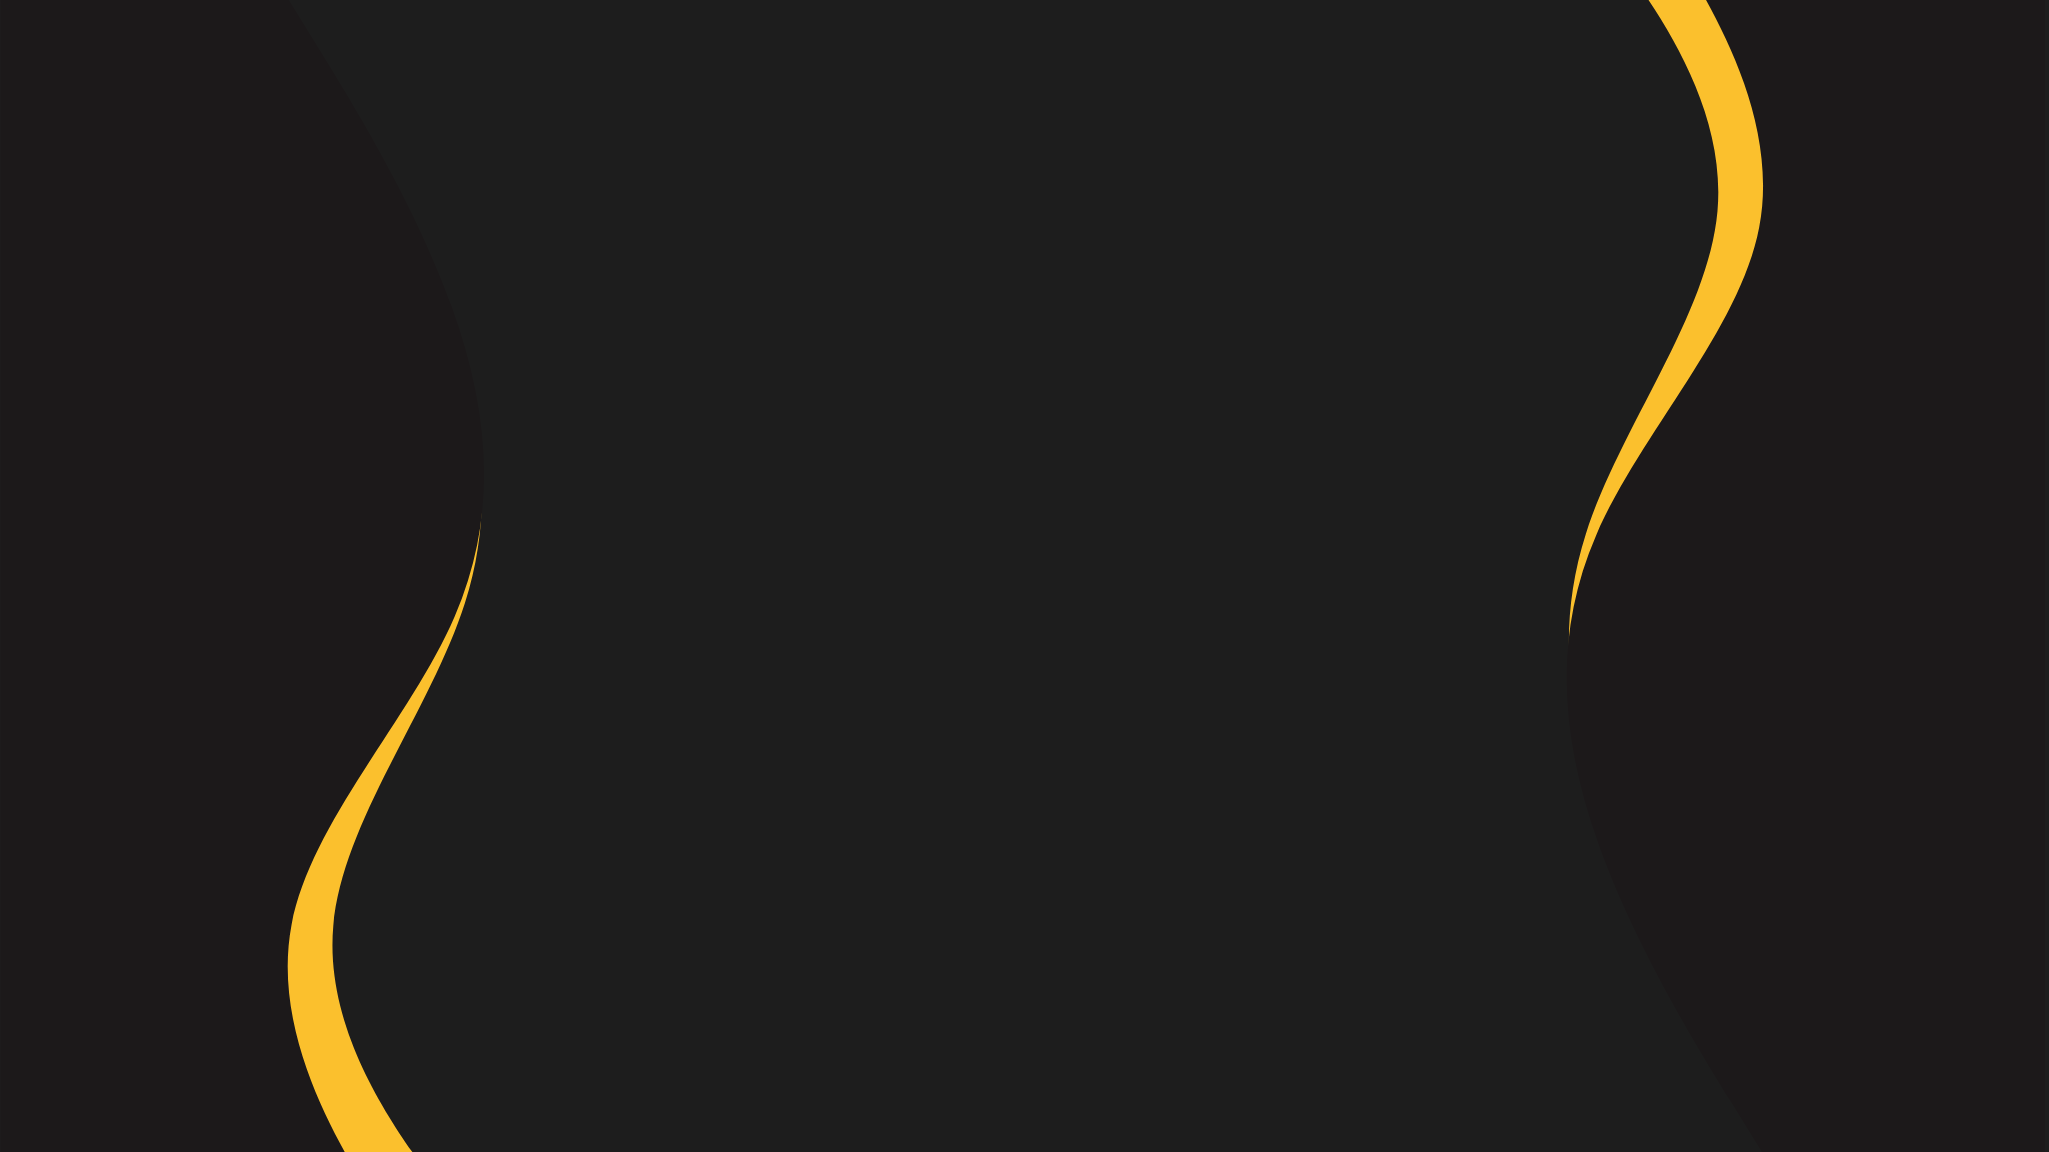
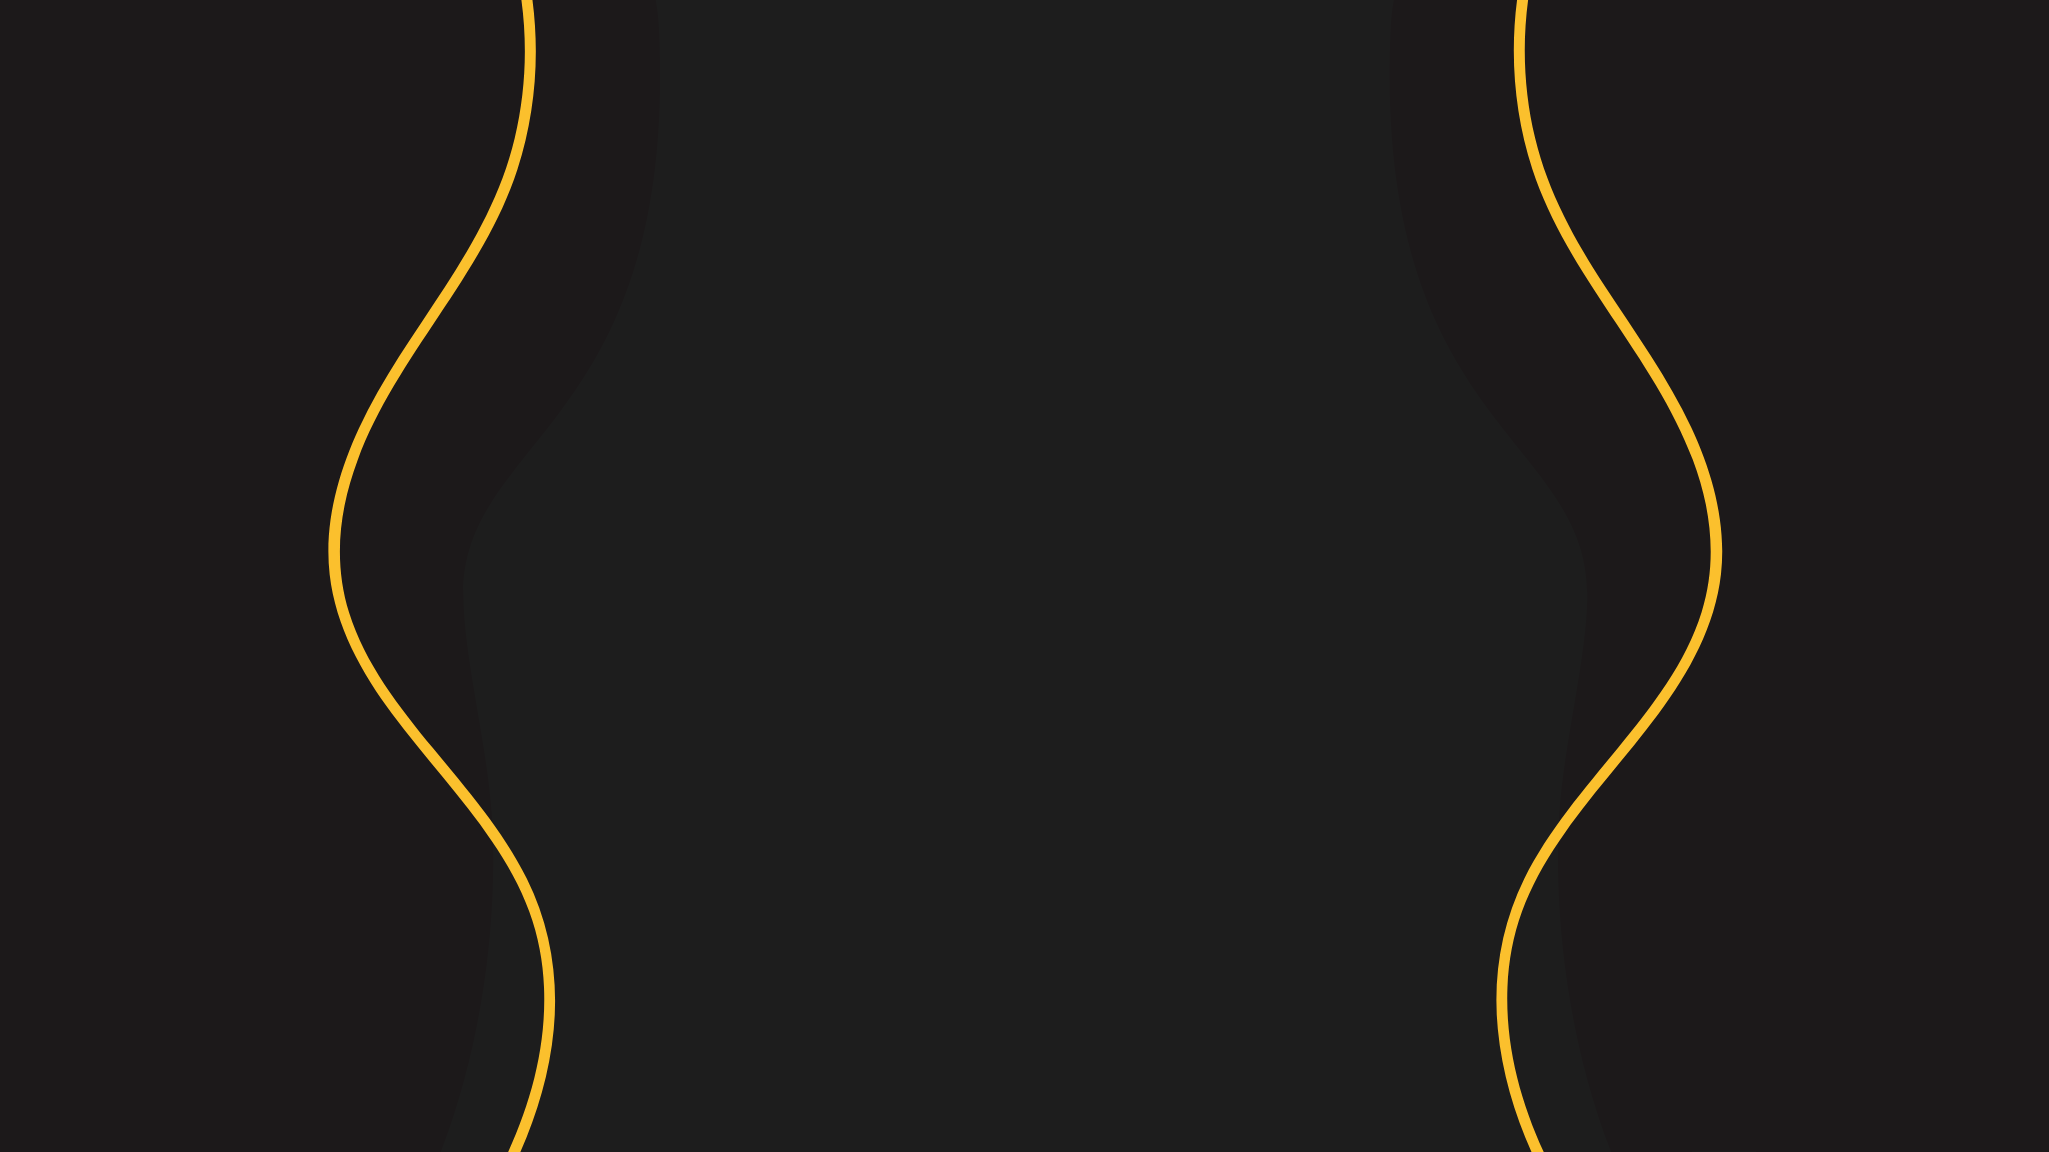
gotta rest

diff --git a/Schoolworks/School_Project/CPPROG3/misc/script.js b/Schoolworks/School_Project/CPPROG3/misc/script.js
@@ -251,12 +251,36 @@ function showMG() {
 }
 
 const paragraphs = {
-  10: ["quick brown fox jumps over the lazy dog try again hello world"],
+  10: [
+    "the sun set over the mountains casting a golden glow",
+    "she smiled brightly knowing today was going to be perfect",
+    "the storm clouds gathered darkening the sky with impending rain",
+    "a bird flew past its wings cutting through the cold wind",
+    "the aroma of fresh coffee filled the air waking everyone",
+    "they walked hand in hand enjoying the peaceful evening walk",
+    "the music played softly creating a calm relaxing atmosphere",
+    "the dog barked loudly chasing after the bouncing ball",
+    "he stared at the horizon lost in thoughts of the past",
+    "the books on the shelf were arranged in perfect order",
+  ],
   20: [
-    "typing fast and accurately is a useful skill that improves productivity and reduces mistakes with practice it becomes second nature",
+    "the car screeched to a halt narrowly avoiding the pedestrian who suddenly stepped out from behind the parked truck",
+    "she ran through the crowded streets her heart racing as she desperately searched for the lost wallet",
+    "the wind howled through the trees shaking the branches and causing the leaves to scatter in all directions",
+    "he carefully placed the delicate vase on the shelf making sure it wouldn't fall or get damaged in any way",
+    "as the clock struck midnight the party came to an end leaving everyone to make their way home",
+    "the sun rose over the ocean painting the sky with shades of orange pink and soft purple hues",
+    "they walked down the narrow alley trying to avoid the puddles and debris scattered across the cobblestone path",
+    "the children laughed and played their voices echoing through the park as they ran after the ice cream truck",
+    "she opened the letter with trembling hands unsure of what the contents might reveal about her future",
+    "the professor explained the complex theory in simple terms making sure every student understood the fundamental concepts clearly",
   ],
   40: [
-    "typing is an essential skill in the digital age improving speed and accuracy helps students and professionals work efficiently practice daily to develop muscle memory and improve performance over time using proper techniques reduces strain and increases productivity",
+    "the train rumbled along the tracks its powerful engine pulling several cars behind it as passengers gazed out the windows watching the landscape pass by in a blur of green fields distant hills and the occasional small town",
+    "they sat by the campfire roasting marshmallows and telling stories under a sky full of stars the sound of crackling wood filling the air as the warmth of the fire spread and the night grew colder",
+    "as the clock ticked closer to midnight they exchanged nervous glances waiting for the moment when everything would change unsure of the consequences but certain that what was about to happen would shape their futures forever",
+    "the city was alive with activity bustling with people rushing to work street vendors calling out their wares and the hum of traffic in the background while the tall buildings cast long shadows across the busy streets",
+    "he looked at the painting mesmerized by the intricate details and vivid colors each brushstroke telling a story of its own as if the artist had poured their soul into the work capturing a moment in time that would never fade",
   ],
 };
 
@@ -359,13 +383,58 @@ inpField.addEventListener("input", () => {
 });
 
 function showResults() {
+  // Show the result section
   document.querySelector(".tpdetails").style.display = "block";
   document.querySelector(".tpdetails .wpm span").textContent = wpmTag.innerText;
   document.querySelector(".tpdetails .mistakes span").textContent =
     mistakeTag.innerText;
 
-  let crdtText = document.getElementById("crdt");
-  crdtText.style.display = "block";
+  let crdtTexts = [
+    document.getElementById("crdt1"),
+    document.getElementById("crdt2"),
+    document.getElementById("crdt3"),
+    document.getElementById("crdt4"),
+    document.getElementById("crdt5"),
+    document.getElementById("crdt6"),
+    document.getElementById("crdt7"),
+    document.getElementById("crdt8"),
+  ];
+
+  let delayBetweenNames = 0; // Delay before next name starts (0.5s)
+  let typingSpeed = 50; // Speed per letter in milliseconds
+
+  function typeCredit(index) {
+    if (index < crdtTexts.length) {
+      let element = crdtTexts[index];
+      if (element) {
+        element.style.display = "block"; // Make element visible
+        let text = element.textContent.trim(); // Get the original text
+        element.textContent = ""; // Clear the text for typing effect
+
+        let i = 0;
+        function typeChar() {
+          if (i <= text.length) {
+            element.innerHTML =
+              text.substring(0, i) + `<span class="cursor">|</span>`; // Add cursor
+            i++;
+            setTimeout(typeChar, typingSpeed); // Type next character
+          } else {
+            element.innerHTML = text; // Remove cursor after typing
+            setTimeout(() => typeCredit(index + 1), delayBetweenNames); // Next name
+          }
+        }
+
+        typeChar(); // Start typing animation
+      }
+    }
+  }
+
+  // Ensure credits container is visible before animation starts
+  let creditsContainer = document.getElementById("credits-container");
+  if (creditsContainer) creditsContainer.style.display = "block";
+
+  // Start typing animation 1 second after results appear
+  setTimeout(() => typeCredit(0), 500);
 }
 
 function resetGame() {
@@ -385,6 +454,16 @@ function resetGame() {
 
   // Hide the results box
   document.querySelector(".tpdetails").style.display = "none";
+
+  // Hide the credits container
+  document.getElementById("credits-container").style.display = "none";
+
+  // Hide individual credits
+  let crdtTexts = document.querySelectorAll("#credits-container p");
+  crdtTexts.forEach((el) => {
+    el.style.display = "none";
+    el.innerHTML = el.dataset.text || el.innerText; // Reset text
+  });
 }
 
 loadParagraph();

diff --git a/Schoolworks/School_Project/CPPROG3/misc/style.css b/Schoolworks/School_Project/CPPROG3/misc/style.css
@@ -12,7 +12,7 @@ body {
   align-items: center;
   justify-content: center;
   min-height: 100vh;
-  background: url("assets/bgimage3.png") no-repeat center center fixed;
+  background: url("assets/bgimage4.png") no-repeat center center fixed;
   background-size: cover;
   transition: background-image 1s ease-in-out, opacity 1s ease-in-out;
   touch-action: pan-y;
@@ -40,7 +40,7 @@ body {
   justify-content: center;
   font-size: 100px;
   position: absolute;
-  top: 25%;
+  top: 28%;
   left: 50%;
   transform: translate(-50%, -50%);
   text-align: center;
@@ -215,7 +215,7 @@ body {
 .tpbox {
   color: #fbc02d;
   position: absolute; /* If not already set */
-  top: 38%; /* Reduce this value to move it up */
+  top: 43%; /* Reduce this value to move it up */
   left: 50%;
   transform: translate(-50%, -50%);
 }
@@ -248,8 +248,8 @@ body {
   width: 0;
 }
 .tpbox p {
-  font-size: 45px;
-  text-align: left;
+  font-size: 38px;
+  text-align: justify;
   display: block;
   word-wrap: break-word;
   overflow: hidden;
@@ -289,16 +289,16 @@ body {
     opacity: 0;
   }
 }
-.contents .tpdetails {
+.tpdetails {
   position: absolute; /* Make it float above other content */
   top: 35%; /* Position it in the vertical center */
   left: 50%; /* Position it in the horizontal center */
   transform: translate(-50%, -50%); /* Offset it to truly center it */
-  padding: 50px 220px;
-  border: 5px solid #000000;
+  padding: 50px 100px;
+  border: 4px solid #000000;
   background: #212121; /* Optional: adds some background color */
   border-radius: 80px;
-  box-shadow: 0 4px 10px rgba(0, 0, 0, 0.4); /* Optional: adds shadow for better visibility */
+  box-shadow: 0px 0px 15px 3px rgb(0, 0, 0);
 }
 
 .tpdetails .tpresults {
@@ -439,10 +439,79 @@ li span b {
   font-size: 45px;
   padding-top: 8px;
 }
-
-#crdt {
-  font-size: 16px;
+#crdt1,
+#crdt2,
+#crdt3,
+#crdt4,
+#crdt5,
+#crdt6,
+#crdt7,
+#crdt8 {
+  font-size: 40px;
+  display: none; /* Initially hidden */
+  position: absolute;
+  color: #ffffff;
+  border: 4px solid #000000;
+  background: #212121; /* Optional: adds some background color */
+  border-radius: 8px;
+  box-shadow: 0px 0px 15px 3px rgb(0, 0, 0);
+  padding: 15px;
+}
+#crdt2,
+#crdt3,
+#crdt4,
+#crdt5,
+#crdt6,
+#crdt7,
+#crdt8 {
+}
+#crdt1 {
+  top: 15%;
+  left: 10%;
+  text-decoration-line: underline;
   font-weight: bold;
-  text-align: left;
-  margin-top: 20px;
+}
+#crdt2 {
+  top: 35%;
+  left: 10%;
+}
+#crdt3 {
+  top: 55%;
+  left: 10%;
+}
+#crdt4 {
+  top: 75%;
+  left: 10%;
+}
+#crdt5 {
+  top: 15%;
+  left: 73%;
+}
+#crdt6 {
+  top: 35%;
+  left: 73%;
+}
+#crdt7 {
+  top: 55%;
+  left: 73%;
+}
+#crdt8 {
+  top: 75%;
+  left: 73%;
+}
+.cursor {
+  display: inline-block;
+  animation: crdtblink 0.75s infinite;
+}
+
+@keyframes crdtblink {
+  0% {
+    opacity: 1;
+  }
+  50% {
+    opacity: 0;
+  }
+  100% {
+    opacity: 1;
+  }
 }

diff --git a/Schoolworks/School_Project/CPPROG3/main.html b/Schoolworks/School_Project/CPPROG3/main.html
@@ -4,7 +4,10 @@
 <html lang="en">
   <head>
     <meta charset="UTF-8" />
-    <meta name="viewport" content="width=device-width, initial-scale=1.0" />
+    <meta
+      name="viewport"
+      content="width=device-width, initial-scale=1.0, user-scalable=no, maximum-scale=1"
+    />
     <link rel="stylesheet" href="misc/style.css" />
     <script src="misc/script.js" defer></script>
     <title>Simply Type</title>
@@ -83,7 +86,18 @@
         </div>
       </div>
     </div>
-    <p id="crdt" style="display: none">Created by:</p>
+    <div id="credits-container" style="display: none">
+      <p id="crdt1" style="display: none" data-text="CPPROG3 GROUP">
+        CPPROG3 GROUP
+      </p>
+      <p id="crdt2" style="display: none">Noriel Felipe Jr.</p>
+      <p id="crdt3" style="display: none">Kreah Jumanoy</p>
+      <p id="crdt4" style="display: none">Mich Placencia</p>
+      <p id="crdt5" style="display: none">Tristhan Rodimo</p>
+      <p id="crdt6" style="display: none">Mark Ahron Yandog</p>
+      <p id="crdt7" style="display: none">Adonis Manabeng</p>
+      <p id="crdt8" style="display: none">Andrei Jason Canoza</p>
+    </div>
 
     <!-- ! Audio section.-->
     <audio id="audio" src="misc/assets/KBclick.wav"></audio>

diff --git a/Schoolworks/Activity 8/main.html b/Schoolworks/Activity 8/main.html
@@ -1,0 +1,16 @@
+<!DOCTYPE html>
+<html lang="en">
+  <head>
+    <meta charset="UTF-8" />
+    <meta name="viewport" content="width=device-width, initial-scale=1.0" />
+    <script src="script.js"></script>
+    <title>Document</title>
+  </head>
+  <body>
+    <h2>Event Listener Example</h2>
+    <div id="result">This text will change when you click the button.</div>
+    <button id="changeTextButton" onclick="changeText()">
+      Click Me to Change Text.
+    </button>
+  </body>
+</html>

diff --git a/Schoolworks/Activity 8/script.js b/Schoolworks/Activity 8/script.js
@@ -1,0 +1,8 @@
+function changeText() {
+  var button = document.getElementById("changeTextButton");
+  var resultDiv = document.getElementById("result");
+
+  button.addEventListener("click", function () {
+    resultDiv.textContent = "You clicked the button! The text has changed.";
+  });
+}
